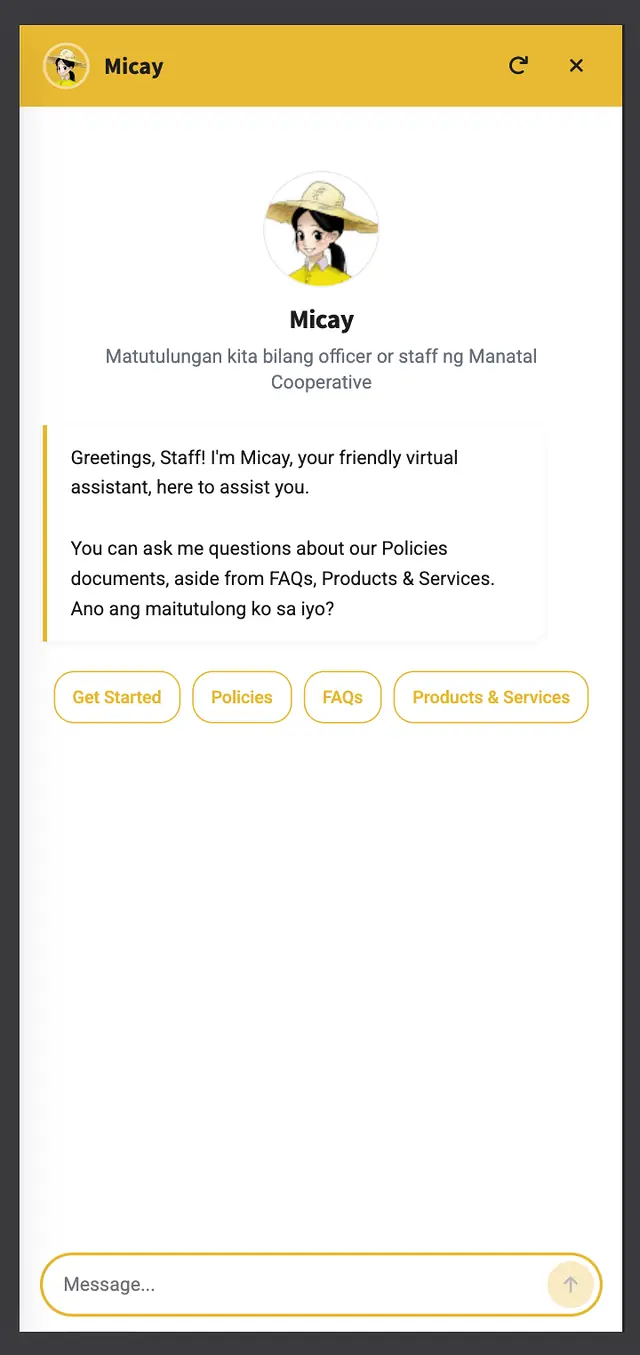
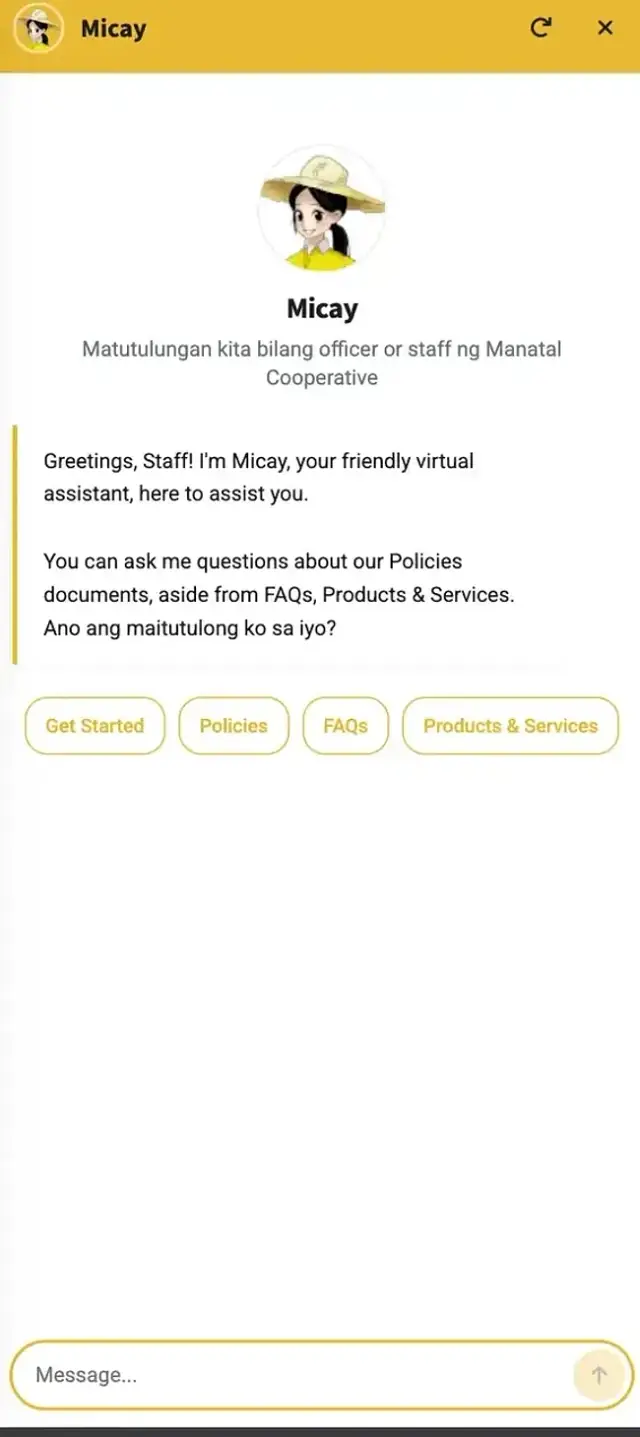
Retrim Manatal carousel assets with uniform safe-zone gutter crop.
Apply one MANATAL_GUTTER_CROP to all three screenshots, normalize to identical 650×1459 output, and refresh WebP variants plus manifest entries.

Changed region(s): [[0.0, 0.0, 1.0, 1.0]]

diff --git a/scripts/optimize-images.test.ts b/scripts/optimize-images.test.ts
@@ -1,8 +1,13 @@
 import { describe, expect, it } from "vitest";
+import imageManifest from "../src/lib/data/image-manifest.json";
 import {
+  getImageCropConfig,
+  getManatalCanonicalCropSize,
   getOptimizationProfile,
   getSharpenProfile,
+  MANATAL_GUTTER_CROP,
   mergeManifestEntry,
+  resolveImageCropRect,
 } from "./optimize-images.mjs";
 
 describe("optimize-images sharpen profiles", () => {
@@ -59,6 +64,54 @@ describe("optimize-images optimization profiles", () => {
       quality: 78,
       maxWidth: 1200,
     });
+  });
+});
+
+describe("optimize-images crop rects", () => {
+  it("resolves percentage insets into pixel extract rect", () => {
+    const rect = resolveImageCropRect(720, 1520, {
+      top: 0.1,
+      left: 0.08,
+      right: 0.08,
+      bottom: 0.2,
+    });
+
+    expect(rect).toEqual({
+      left: 58,
+      top: 152,
+      width: 604,
+      height: 1064,
+    });
+  });
+
+  it("applies unified MANATAL_GUTTER_CROP to all Manatal screenshots", () => {
+    expect(getImageCropConfig("manatal-coop-homepage.png")).toEqual(
+      MANATAL_GUTTER_CROP,
+    );
+    expect(getImageCropConfig("manatal-coop-signin.png")).toEqual(
+      MANATAL_GUTTER_CROP,
+    );
+    expect(getImageCropConfig("manatal-coop-chatbot.png")).toEqual(
+      MANATAL_GUTTER_CROP,
+    );
+  });
+
+  it("defines canonical Manatal crop size from reference viewport", () => {
+    expect(getManatalCanonicalCropSize()).toEqual({
+      width: 650,
+      height: 1459,
+    });
+  });
+
+  it("keeps identical manifest dimensions for all Manatal carousel images", () => {
+    const homepage = imageManifest["/manatal-coop-homepage.webp"];
+    const signin = imageManifest["/manatal-coop-signin.webp"];
+    const chatbot = imageManifest["/manatal-coop-chatbot.webp"];
+
+    expect(homepage?.width).toBe(signin?.width);
+    expect(homepage?.height).toBe(signin?.height);
+    expect(homepage?.width).toBe(chatbot?.width);
+    expect(homepage?.height).toBe(chatbot?.height);
   });
 });
 
